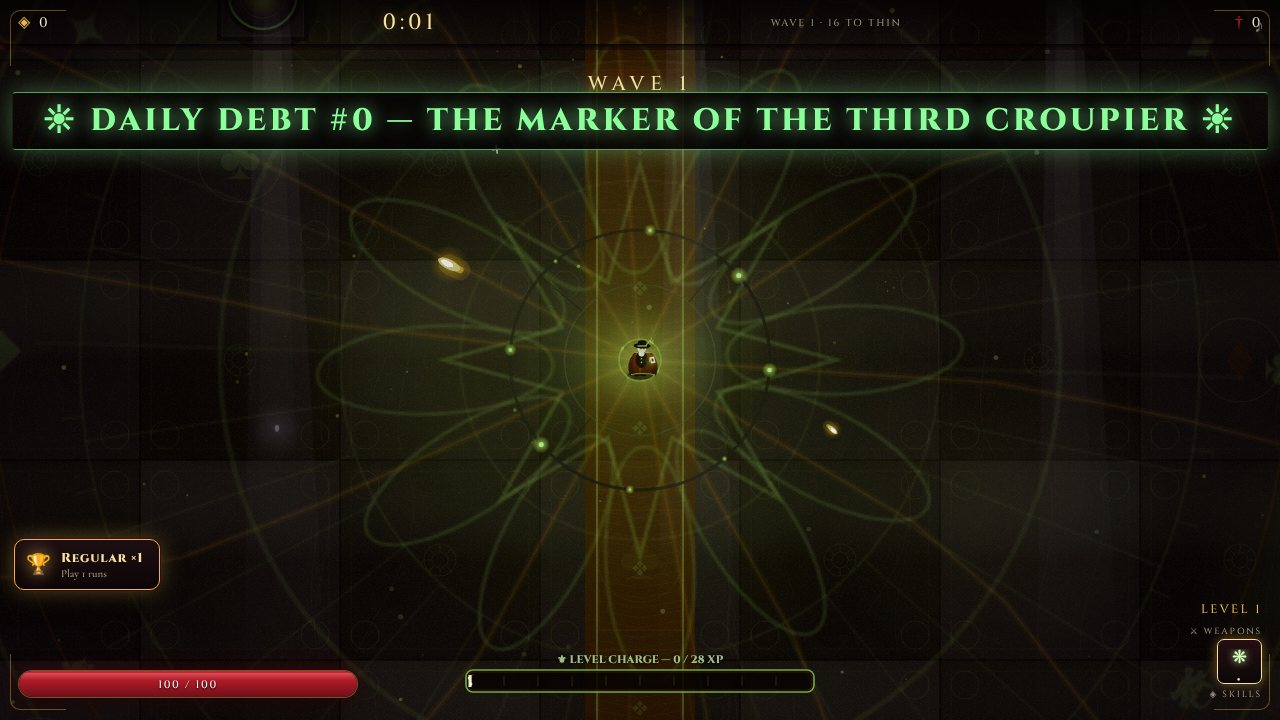
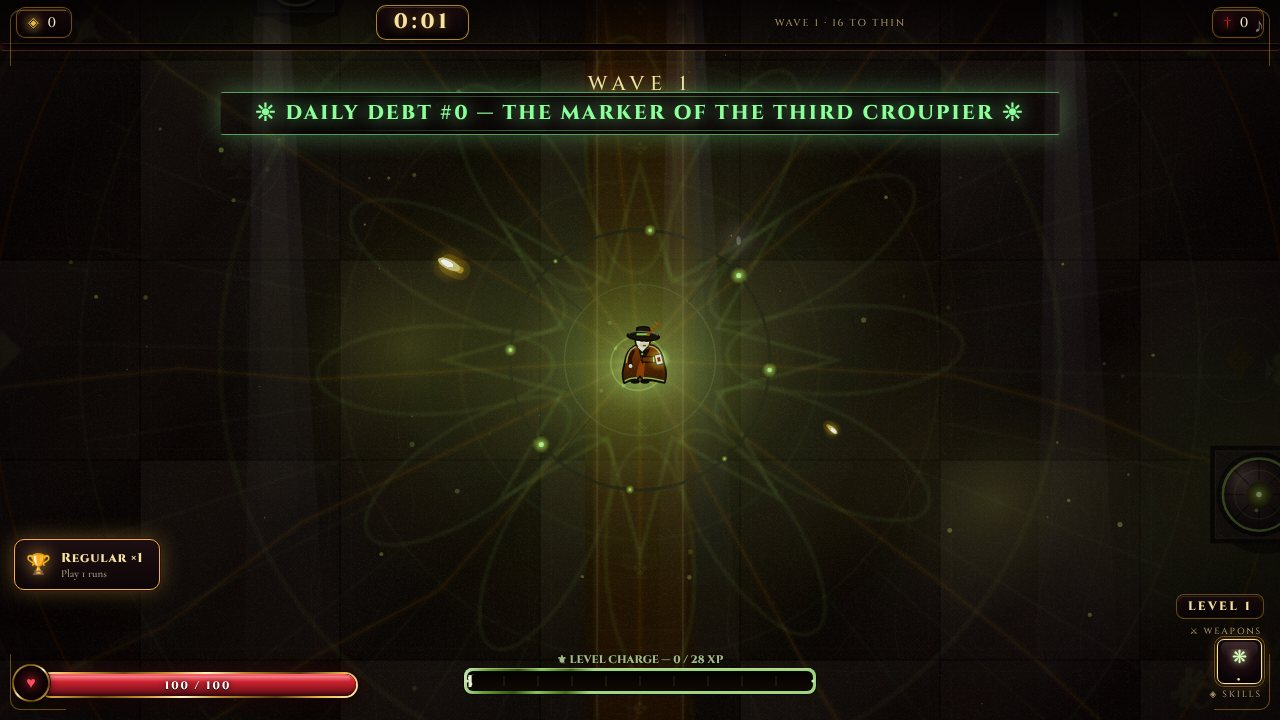
B1: plaque joins the parlor column on desktop; notes after main merge; fresh shots
Claude-Session: https://claude.ai/code/session_01LfZkkF9DXksfSKQ4X8bYen

diff --git a/src/daily.js b/src/daily.js
@@ -228,13 +228,12 @@ function dlyPlaque(){
   const menu=$('menu'), pn=menu&&menu.querySelector('.panel'); if(!pn) return;
   let p=$('dlyPlaque');
   if(!p){ p=document.createElement('div'); p.id='dlyPlaque';
-    const anchor=$('loadoutLine')||$('startBtn');
-    if(anchor&&anchor.parentNode===pn) pn.insertBefore(p, anchor.nextSibling); else pn.appendChild(p);
     p.addEventListener('click',ev=>{ ev.stopPropagation(); dlyPlay(); }); }
+  dlyPlace(p, pn);
   const day=dlyToday(), t=dlyTerms(day), d=DLY.data, rec=d.days[day], st=dlyStreak();
   const played=!!rec;
   const today= !played ? 'UNPAID' : (rec.done ? fmt(rec.t)+(rec.track?' '+rec.track:'') : 'FORFEIT');
-  p.className=played?'paid':'';
+  p.classList.toggle('paid', played);
   p.innerHTML='<div class="dpTop"><b>☀ DAILY DEBT #'+t.n+'</b><span class="dpCd">NEXT DEBT IN <i id="dlyCd">'+dlyClock(dlyLeft())+'</i></span></div>'
     +'<div class="dpName">'+t.name+'</div>'
     +'<div class="dpTerms"><span style="color:'+dlySoulFor(t).col+'">'+dlySoulFor(t).g+' '+dlySoulFor(t).n+'</span> · <span style="color:'+dlyFloorFor(t).col+'">'+dlyFloorFor(t).g+' '+dlyFloorFor(t).n+'</span> · '+dlyModLine(t,true)+'</div>'
@@ -242,6 +241,17 @@ function dlyPlaque(){
     +'<button class="btn dpBtn" type="button">'+(played?'☀ PRACTICE THE DEBT':'☀ PAY TODAY\'S DEBT')+'</button>';
   p.dataset.day=day;
 }
+// desktop (A1's two-column menu): the plaque closes the parlor column under OPTIONS; phones: under PLAY TONIGHT
+function dlyPlace(p, pn){
+  const row=$('menuRow2');
+  const side=row && row.parentNode===pn && (typeof matchMedia==='function') && matchMedia('(min-width:900px) and (min-height:600px)').matches;
+  if(side){ if(p.parentNode!==row) row.appendChild(p); p.classList.add('side'); return; }
+  p.classList.remove('side');
+  const anchor=$('loadoutLine')||$('startBtn');
+  if(anchor&&anchor.parentNode===pn){ if(p.previousSibling!==anchor||p.parentNode!==pn) pn.insertBefore(p, anchor.nextSibling); }
+  else if(p.parentNode!==pn) pn.appendChild(p);
+}
+window.addEventListener('resize',()=>{ try{ const p=$('dlyPlaque'), pn=$('menu')&&$('menu').querySelector('.panel'); if(p&&pn) dlyPlace(p,pn); }catch(e){} });
 function dlySoulFor(t){ return SOULS.find(s=>s.id===t.soul)||SOULS[0]; }
 function dlyFloorFor(t){ return FLOORS.find(f=>f.id===t.floor)||FLOORS[0]; }
 function dlyPlay(){

diff --git a/styles.css b/styles.css
@@ -1994,6 +1994,11 @@ body.touchUI #howBtnRow{bottom:calc(76px + var(--sab));gap:8px;white-space:nowra
 #dlyPlaque.paid .dpBtn{opacity:.8;}
 @keyframes dlyGlow{0%,100%{box-shadow:inset 0 0 0 3px rgba(10,4,7,.8),inset 0 0 0 4px rgba(232,182,76,.22),0 6px 22px rgba(0,0,0,.55),0 0 14px rgba(255,211,107,.08);}
   50%{box-shadow:inset 0 0 0 3px rgba(10,4,7,.8),inset 0 0 0 4px rgba(232,182,76,.36),0 6px 22px rgba(0,0,0,.55),0 0 26px rgba(255,211,107,.22);}}
+#dlyPlaque.side{margin:10px 0 0;max-width:none;width:100%;padding:9px 10px;}
+#dlyPlaque.side .dpName{font-size:13.5px;letter-spacing:.1em;}
+#dlyPlaque.side .dpTop{flex-direction:column;align-items:center;gap:2px;}
+#dlyPlaque.side .dpTerms{font-size:12.5px;}
+#dlyPlaque.side .dpFoot{gap:10px;}
 @keyframes dlyFresh{0%{filter:brightness(2.2);}100%{filter:none;}}
 #dlyBand{margin:0 auto 10px;max-width:560px;padding:8px 12px;text-align:center;font-family:var(--disp);
   background:linear-gradient(180deg,rgba(10,4,7,.88),rgba(42,15,22,.75));border:1px solid rgba(232,182,76,.6);border-radius:5px;

diff --git a/notes/B1.md b/notes/B1.md
@@ -39,7 +39,7 @@ Branch `claude/b1-daily-debt`. No dist committed.
   - Indulgences the player has bought are **not consumed**; they wait for their next normal night.
 
 ### 3. The menu plaque
-- **Where:** under PLAY TONIGHT and the loadout line.
+- **Where:** on desktop (≥900×600, A1's two-column menu) it closes the right-hand parlor column under OPTIONS. On phones and short screens it sits under PLAY TONIGHT and the loadout line. `dlyPlace()` re-homes it on resize.
 - **What it shows:**
   - "☀ DAILY DEBT #n", with a live countdown to the next debt (UTC midnight);
   - the debt's name;
@@ -92,6 +92,11 @@ Branch `claude/b1-daily-debt`. No dist committed.
   - **I used 150s rather than 60s** because a no-ease night pulls its first slot at about 1:20, so 60s would have included zero slot results. Spawns match over 60s too, a subset of the check.
 - **`npm run probe -- --nights 3`** on the final build: exit 0, zero errors, deaths 6:45 / 3:32 / 4:23 (median 4:23).
 - **`--nights 5`:** exit 0, zero errors, deaths 4:22 / 5:43 / 3:57 / 5:38 / 13:07 (median 5:38). Both runs are within the v4.0 baseline band. Normal mode still draws from `Math.random` through `rng()`.
+- **After merging main (A1, A4, D1),** `npm run probe -- --nights 3`: exit 0, zero errors.
+  - First run: deaths 3:05 / 5:17 / 5:31.
+  - Final build: 13:05 / 6:41 / 13:06. Two of the three bot nights reached the House.
+  - `daily-check` still passes on the merged build.
+  - The high survival comes from main's merged curve. Normal-mode spawn logic is unchanged by B1. Flag for the balance session.
 - **A bug I caught in my own work:** an early ledger-band version wrote `classList` on `#gameover` from inside a MutationObserver watching that same class. That retriggered forever on every *normal* death and hung the page. The 5-night probe exposed it, and a CDP pause found the line. It's now guarded (only writes when the value changes) and verified by the runs above.
 - **`node probes/daily-shots.js`** writes `shots/b1/`:
   - menu plaque (desktop, plus a close-up PNG);
@@ -110,6 +115,10 @@ Branch `claude/b1-daily-debt`. No dist committed.
 - **The normal-mode spawn curve is untouched.** Medians move between runs because of RNG noise; A3 saw 3:14–5:25 for the same build.
 
 ## Merge notes (files touched)
+- **Already merged with origin/main** (A1, A4, D1) in a merge commit, because rebasing would have needed a force-push, which wasn't permitted.
+  - Conflicts resolved, keeping both sides: `core.js` (D1 `soulTick` + B1 `dlyTick`), `slot.js` (D1 cardsharp + B1 `rng`), and `styles.css` (B1 block moved back to the very end).
+  - D1's run-shaping rolls are also routed through `rng`: the cardsharp deal, the magpie gold coins, and the golden chip outcome and bust payout.
+  - D1's four new souls are *not* in the daily seat table (vesper/dealer/widow/debtor/brute/yolk). The table is hard-coded by id, so adding souls never reshuffles past debts.
 - **NEW `src/daily.js`**, loaded **last**, after `ui.js`. It's in `index.html` as `<script src="./src/daily.js">`, and vite picks it up automatically from the tag order. It wraps `quitToMenu`, `actuallyDie`, `renderChips`, `a3Line`, `a3Night` and `a3Card` by global reassignment, so it must stay after `ui.js` and `marker.js`.
 - **`src/core.js`:**
   - rng helpers after `pick`;
